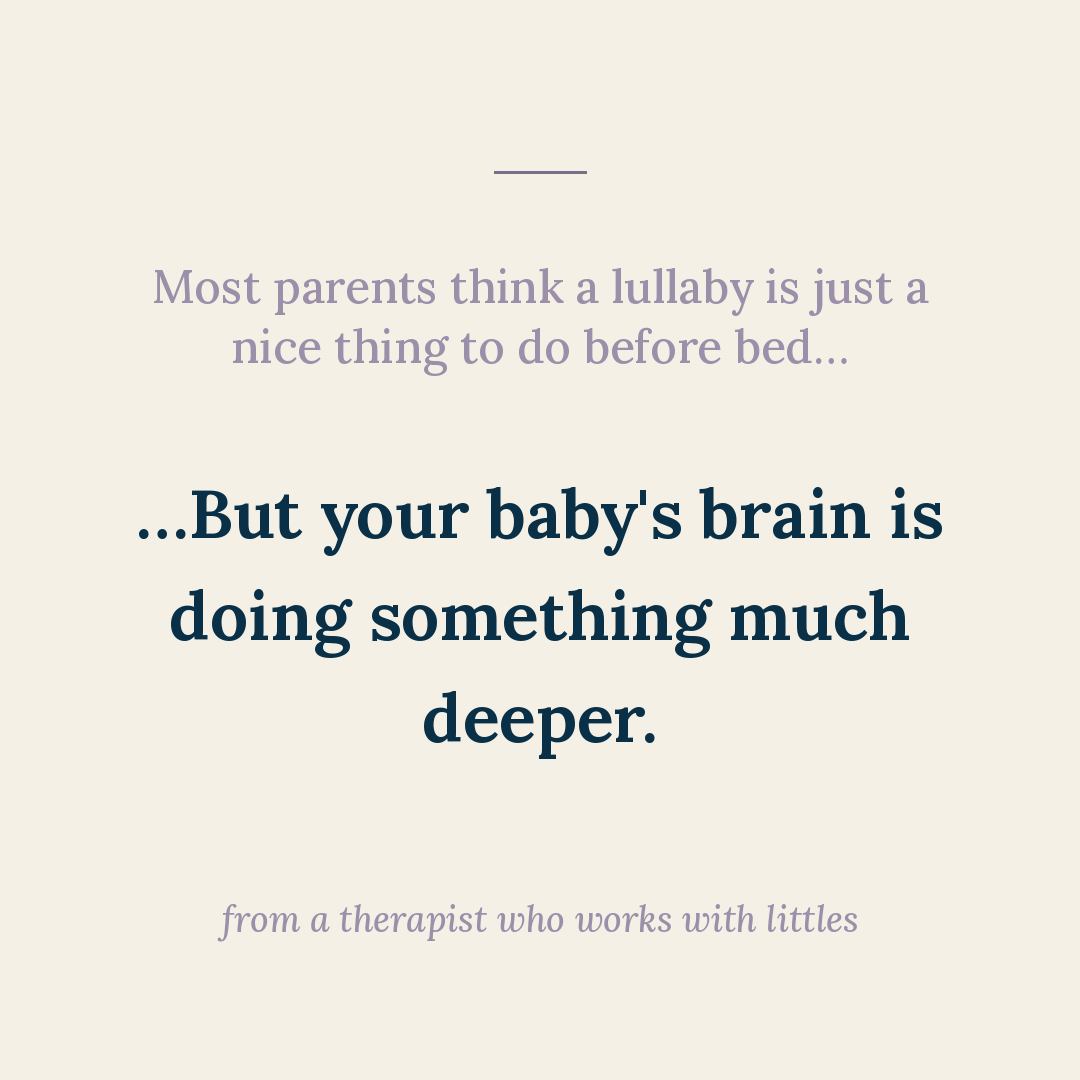
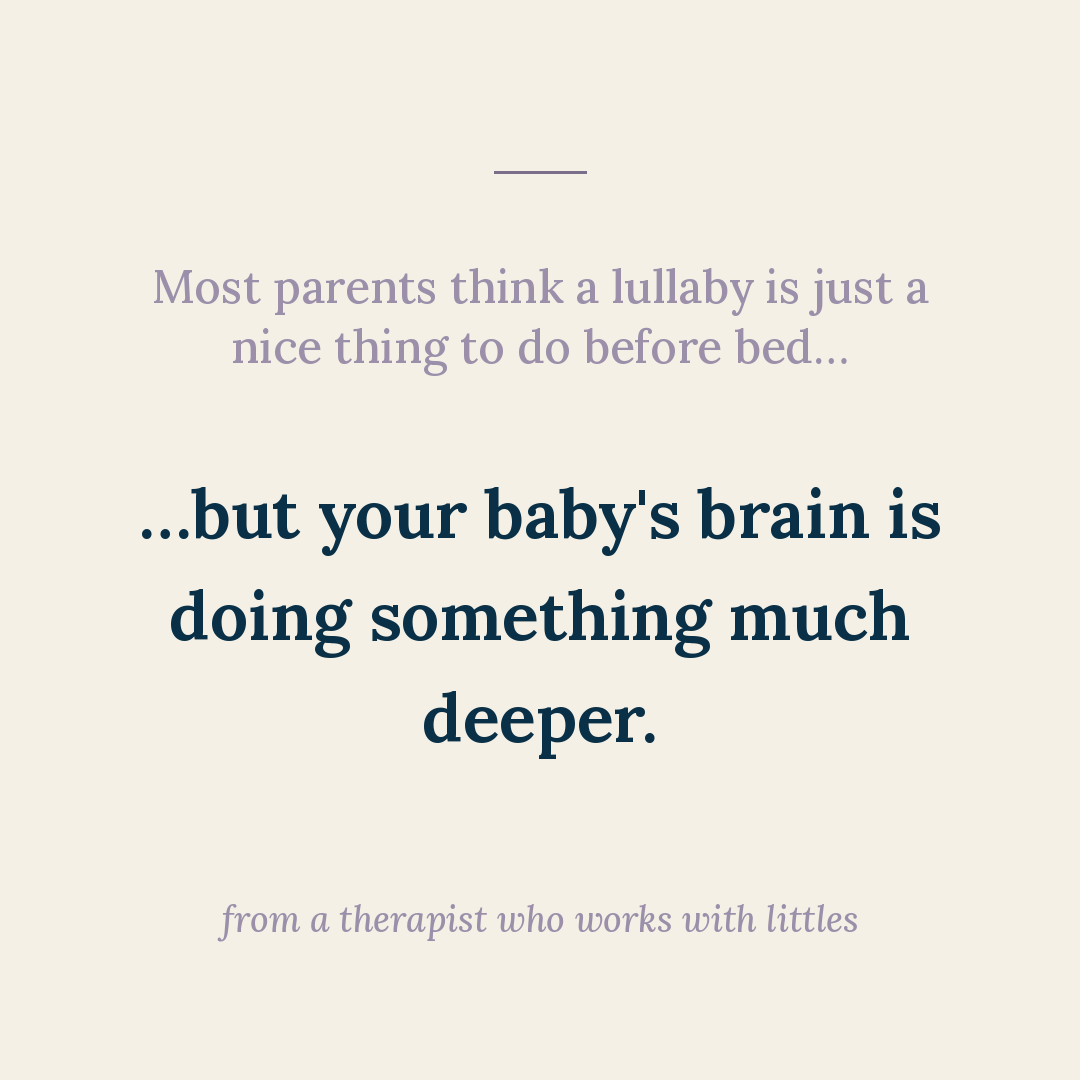
Add ad-test-what-a-lullaby-is-really-doing (Ad Test - What A Lullaby Is Really Doing)

diff --git a/posts/ad-test-what-a-lullaby-is-really-doing/slides.md b/posts/ad-test-what-a-lullaby-is-really-doing/slides.md
@@ -7,7 +7,7 @@ the big navy reframe hook (render_cover gained an optional `eyebrow=` arg for th
 
 ## Cover (eyebrow setup + reframe hook; ellipses continue the thought across the break)
 eyebrow: Most parents think a lullaby is just a nice thing to do before bed…
-hook: …But your baby's brain is doing something much deeper.
+hook: …but your baby's brain is doing something much deeper.
 
 ## Items
 01 — Long before they can say your name, they recognize your voice.
